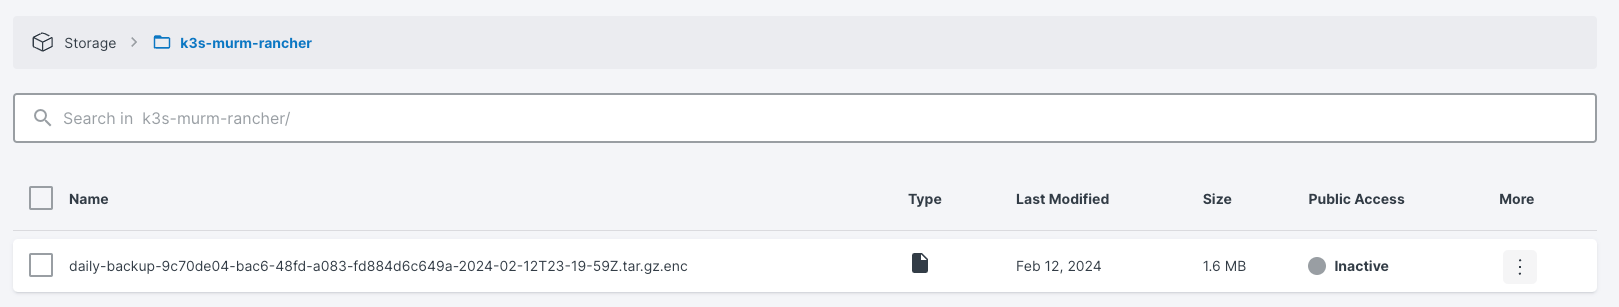
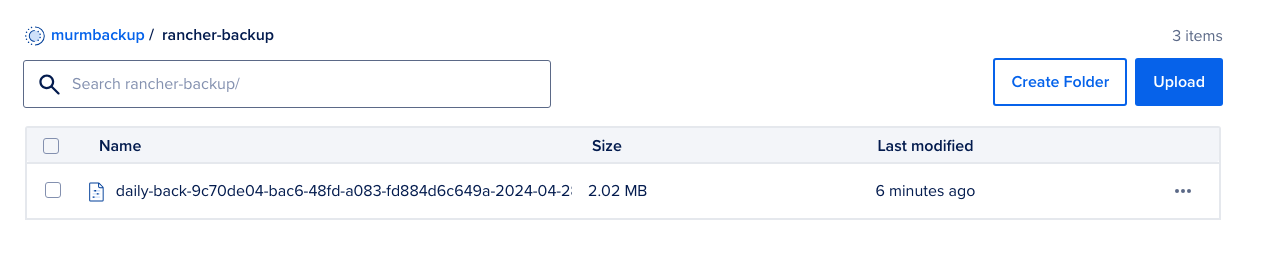
docs: Update Digital Ocean backup instructions (#758)

diff --git a/docs/rancher/03-setup-rancher/install-rancher-backup-tool.md b/docs/rancher/03-setup-rancher/install-rancher-backup-tool.md
@@ -37,7 +37,7 @@ Then, proceed to create a new space by clicking on "Create Space" and specifying
 
 ## Step 2 - Obtaining Digital Ocean Object Storage Credentials
 
-After setting up the space, it's necessary to obtain your S3-compatible storage credentials, including the Access Key and Secret Key. This can be done by navigating to the "Application & API" section within the Digital Ocean control panel and selecting "Generate New Key"
+After setting up the space, you need to obtain your S3-compatible storage credentials, which include the Access Key and Secret Key. To do this, navigate to the "API" section and select "Generate New Key" under the Space Keys tab.
 
 ![S3 Credentials](./assets/images/do-space-credentials.png)
 
@@ -82,7 +82,7 @@ Ensure the default storage location is set to the S3-compatible object store, se
 
 ```yaml
 Credential secret: do-space-creds
-Space name: murm-backup
+Space name: {{space-name}}
 Region: ams3
 Folder: rancher-backup
 Endpoint: ams3.digitaloceanspaces.com

diff --git a/docs/rancher/06-setup-longhorn/recurring-backup.md b/docs/rancher/06-setup-longhorn/recurring-backup.md
@@ -47,7 +47,7 @@ kubectl create secret generic aws-secrets \
   --from-literal=AWS_ACCESS_KEY_ID={{your_access_key}} \
   --from-literal=AWS_SECRET_ACCESS_KEY={{your_secret_key}} \
   --from-literal=AWS_ENDPOINTS='https://ams3.digitaloceanspaces.com' \
-  --from-literal=AWS_REGION=us-east-1 \
+  --from-literal=AWS_REGION=ams3 \
   --from-literal=VIRTUAL_HOSTED_STYLE=false \
   -n longhorn-system
 ```
@@ -58,7 +58,7 @@ Access the Longhorn user interface. Click on "Settings" in the top navigation ba
 
 ```bash
 s3://[SPACENAME]@[REGION]/[FOLDER-NAME]
-# For example: s3://mybackup@ams3/myfolder-backups
+# For example: s3://murmbackup@ams3/rke-production-backup
 ```
 
 This configuration directs Longhorn to store backups in the specified S3-compatible storage location. Replace `[SPACENAME]` with the name of your space, `[REGION]` with the region of your storage, and `[FOLDER-NAME]` with your desired folder name for the backups.

diff --git a/docs/rancher/03-setup-rancher/backup-rancher.md b/docs/rancher/03-setup-rancher/backup-rancher.md
@@ -51,14 +51,14 @@ Securely store this key in a safe location, such as a password manager. This wil
 apiVersion: apiserver.config.k8s.io/v1
 kind: EncryptionConfiguration
 resources:
-    - resources:
-        - secrets
+  - resources:
+      - secrets
     providers:
-        - aescbc:
-            keys:
+      - aescbc:
+          keys:
             - name: key1
-                secret: {{base64-encoded-secret}}
-        - identity: {}
+              secret: {{base64-encoded-secret}}
+      - identity: {}
 ```
 
 Example commands for creating and editing the file:
